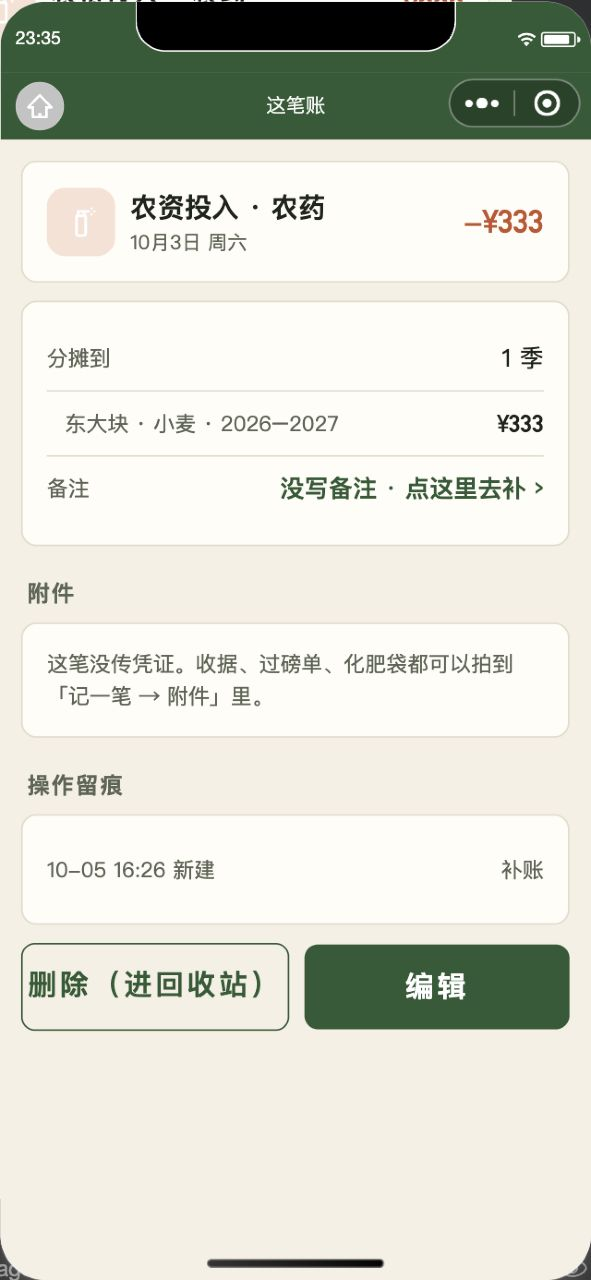
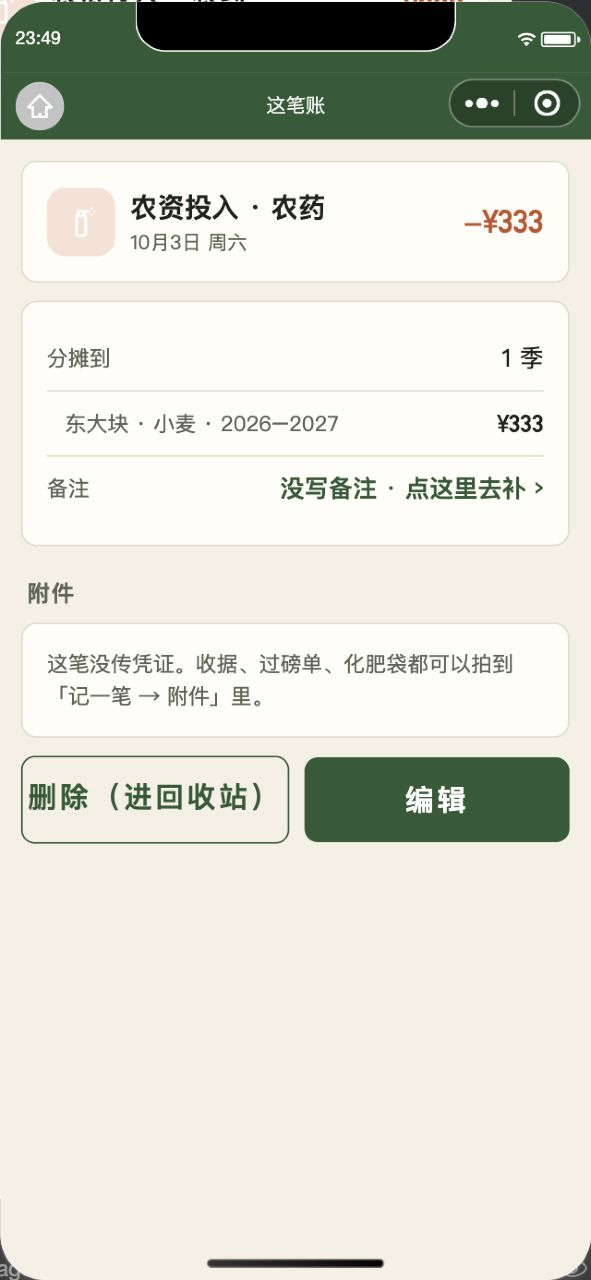
fix(cost-detail): 去掉「操作留痕」版块（按用户要求）；留痕数据仍写入，只是不展示 - 设计稿同步：F8 标题改「流水详情」、F21 改「回收站」、覆盖清单 P1-12 改为「误删恢复；留痕只写数据不展示」

diff --git a/docs/design/记账P0P1-UI设计稿.html b/docs/design/记账P0P1-UI设计稿.html
@@ -229,7 +229,7 @@ h3.sect{font-size:12.5px;font-weight:700;color:var(--sub);letter-spacing:1px;mar
 
 <div class="wrap">
 <h1>谷雨记 · 记账 P0+P1 UI 设计稿<small>随手记对齐版 · 全量落地（无 MVP）</small></h1>
-<div class="meta">2026-10-05 · 覆盖：收入侧 / 债权债务 / 报表趋势 / 库存 / 键盘自定义+最近分类 / 流水多维筛选 / 日历周月+连续补账 / 附件留证 / 周期账与分期 / 全部地块统一流水 / 操作留痕与误删恢复<br>
+<div class="meta">2026-10-05 · 覆盖：收入侧 / 债权债务 / 报表趋势 / 库存 / 键盘自定义+最近分类 / 流水多维筛选 / 日历周月+连续补账 / 附件留证 / 周期账与分期 / 全部地块统一流水 / 误删恢复（回收站）<br>
 共 <b>28 屏</b>。视觉与当前线上版本 <b>1:1 对齐</b>（沿用 <code>app.wxss</code> 的色板 / 圆角 / 字号 / 组件尺寸，1px = 2rpx），<b>不引入任何新色相</b>——收支与欠款只用既有色值。<b>导出模块已按你的要求删除。</b></div>
 
 <h2 class="sec">0. 设计系统（与当前线上版本 1:1 对齐）</h2>
@@ -285,7 +285,7 @@ h3.sect{font-size:12.5px;font-weight:700;color:var(--sub);letter-spacing:1px;mar
 <tr><td>P1-9</td><td>附件 / 拍照留证：多张、缩略图、九宫格查看</td><td>F5 F8</td></tr>
 <tr><td>P1-10</td><td>周期账 / 分期：每次/每月/每季自动待记、分 N 期</td><td>F4</td></tr>
 <tr><td>P1-11</td><td>全部地块统一流水页（跨季跨地块）</td><td>F6</td></tr>
-<tr><td>P1-12</td><td>操作留痕 + 误删恢复（回收站）</td><td>F8 F21</td></tr>
+<tr><td>P1-12</td><td>误删恢复（回收站）；操作留痕只写数据、界面不展示（用户要求）</td><td>F21</td></tr>
 <tr><td>P1-13</td><td>预算：按季总预算 / 每亩目标 / 分类预算、进度与超支提醒</td><td>F25</td></tr>
 <tr><td>P1-14</td><td>资金账户：现金 / 微信 / 银行卡，期初 + 实收 − 实付 = 余额，按账户筛流水</td><td>F26</td></tr>
 <tr><td>P1-15</td><td>资产负债总览：账户余额 + 库存估值 + 应收 − 应付 = 净资产</td><td>F27</td></tr>
@@ -637,22 +637,16 @@ h3.sect{font-size:12.5px;font-weight:700;color:var(--sub);letter-spacing:1px;mar
     <div class="row" style="gap:9px">
       <div class="thumb">收据</div><div class="thumb">过磅单</div><div class="thumb">化肥袋</div><div class="thumb" style="border-style:dashed">＋</div>
     </div>
-    <h3 class="sect">操作留痕</h3>
-    <div class="c2 flat">
-      <div class="kv"><span class="muted">10-05 14:22 创建</span><span class="tiny">本机</span></div>
-      <div class="kv"><span class="muted">10-05 14:31 改金额 2,080 → 2,180</span><span class="tiny">本机</span></div>
-      <div class="kv"><span class="muted">10-05 14:40 加附件 收据.jpg</span><span class="tiny">本机</span></div>
-    </div>
     <div class="row" style="gap:9px">
       <div class="btn ghost grow sm">删除（进回收站）</div><div class="btn g grow sm">编辑</div>
     </div>
   </div>
 </div>
-<div class="cap"><h4>F8 · 流水详情（含留痕）<span class="tagline">P1-9 / P1-12</span></h4>
+<div class="cap"><h4>F8 · 流水详情<span class="tagline">P1-9</span></h4>
 <ul>
 <li>把「怎么算出来的 / 分摊到哪 / 结款状态 / 备注」四件事一次说清，替代现在只有一行的列表信息量。</li>
 <li>附件在详情里可补加、可删。</li>
-<li><b>操作留痕</b>只记关键动作（创建 / 改金额 / 改分类 / 加删附件 / 销账），每条带时间戳与来源（本机 / 云端），不记打开、滚动这类噪音。</li>
+<li><b>操作留痕不在界面上展示</b>（用户要求，别占版面）：<code>costs[i].audit</code> 仍在写「谁在什么时候改了什么」，供回收站/对账口径用，但详情页只显示「怎么算的 / 分摊 / 结款 / 备注 / 附件」。</li>
 <li>删除走软删 → 回收站（F21），文案明确写「进回收站」而不是「删除」，减少误操作恐惧。</li>
 </ul></div></div></div>
 <h2 class="sec">5. 日历（P1-8）</h2>
@@ -1268,21 +1262,15 @@ h3.sect{font-size:12.5px;font-weight:700;color:var(--sub);letter-spacing:1px;mar
       <div class="flow"><div class="fic b">记</div><div class="grow"><div style="font-weight:700">记事：施肥 复合肥 20 袋</div><div class="tiny">10-04 删除 · 剩 28 天</div></div><span class="chip hl">恢复</span></div>
       <div class="flow"><div class="fic d">欠</div><div class="grow"><div style="font-weight:700">应付 · 老王（机手）¥1,500</div><div class="tiny">10-02 删除 · 剩 26 天</div></div><span class="chip hl">恢复</span></div>
     </div>
-    <div class="c2 flat">
-      <div class="tiny" style="margin-bottom:5px">这一季的操作记录</div>
-      <div class="kv"><span class="muted">10-05 14:40 删除一笔账</span><span class="tiny">本机</span></div>
-      <div class="kv"><span class="muted">10-05 14:31 改金额 2,080 → 2,180</span><span class="tiny">本机</span></div>
-      <div class="kv"><span class="muted">10-05 14:22 新建一笔账</span><span class="tiny">本机</span></div>
-    </div>
     <div class="muted" style="text-align:center;font-size:12px">删除不弹二次确认，因为可以恢复——比现在的「confirm 后硬删」更安全</div>
   </div>
 </div>
-<div class="cap"><h4>F21 · 回收站 + 操作留痕<span class="tagline">P1-12</span></h4>
+<div class="cap"><h4>F21 · 回收站<span class="tagline">P1-12</span></h4>
 <ul>
 <li>所有删除改为软删（账目 / 记事 / 欠款 / 库存动账 / 附件），保留 30 天，可一键恢复。</li>
 <li>「清空」需二次确认；到期自动清理在启动时本机做，不依赖云函数。</li>
 <li>恢复会把关联关系一并还原（账↔记事、账↔附件、欠款↔账）。</li>
-<li>下半页是操作留痕：只记关键动作 + 时间戳 + 来源，和 F8 详情里的留痕同一份数据。</li>
+<li>操作留痕只留在数据里（<code>costs[i].audit</code>），不在这页展示，避免版面被审计信息占满。</li>
 <li>有了回收站，各处删除不再需要 confirm 弹窗——少一步点击，误删也不怕。</li>
 </ul></div></div>
 
@@ -1420,7 +1408,7 @@ h3.sect{font-size:12.5px;font-weight:700;color:var(--sub);letter-spacing:1px;mar
 <tr><td>周期账</td><td><code>tags.recurring=[{id,name,cat,sub,mode,freq,day|dueTag,amount,startAt,endAt,lastFiredAt,enabled}]</code>；到期只生成待记，不自动落账</td></tr>
 <tr><td>分期</td><td>同上，加 <code>installment:{total,periods,index}</code>；每期金额 = 总额/期数，尾差进最后一期（复用现有 <code>splitBy</code>）</td></tr>
 <tr><td>回收站</td><td><code>costs/logs</code> 加 <code>deletedAt</code>；所有列表过滤掉带 <code>deletedAt</code> 的；30 天后启动时本机清理</td></tr>
-<tr><td>留痕</td><td><code>costs[i].audit=[{at,action,from,to,src:'local'|'cloud'}]</code>，只记关键动作</td></tr>
+<tr><td>留痕</td><td><code>costs[i].audit=[{at,action,from,to,src:'local'|'cloud'}]</code>，只记关键动作；<b>只写不展示</b>（用户在真机上要求删掉「操作留痕」版块）</td></tr>
 <tr><td>日历</td><td>月/周共用 <code>stats.costMonth</code>；周视图新增 <code>stats.costWeek</code>，输出与月一致的格结构</td></tr>
 <tr><td>连续补账</td><td>由「季内日历缺记日」派生，纯前端状态机，每保存一天立即落库</td></tr>
 <tr><td>筛选</td><td>纯前端过滤（数据量在千级以内），条件对象 <code>{dir,cats[],subs[],amtMin,amtMax,from,to,onlyDebt,onlyAttach,onlyLinked,q}</code></td></tr>
@@ -1441,7 +1429,7 @@ h3.sect{font-size:12.5px;font-weight:700;color:var(--sub);letter-spacing:1px;mar
 <div class="note done" style="margin-top:12px"><b>5. 导出模块 —— 已删除，不做。</b><br>
 <code>utils/export.js</code>、报表页与我的页的导出入口、以及本稿原来的 F14 全部移除；<code>miniprogram/README.md</code> 里「mine 有导出为文字」的描述也一并改成实际能力。账目对外分享只保留小程序原生「推荐给朋友」。</div>
 <div class="note" style="margin-top:12px"><b>6. 全量落地，不拆 MVP。</b><br>
-收入侧 / 欠款 / 报表趋势 / 库存 / 键盘自定义+最近分类 / 流水多维筛选 / 日历周月+连续补账 / 附件留证 / 周期账与分期 / 全部地块统一流水 / 操作留痕与回收站，一起做完再回归真机。</div>
+收入侧 / 欠款 / 报表趋势 / 库存 / 键盘自定义+最近分类 / 流水多维筛选 / 日历周月+连续补账 / 附件留证 / 周期账与分期 / 全部地块统一流水 / 回收站，一起做完再回归真机。</div>
 <div class="note done" style="margin-top:12px"><b>7. 补齐 3 个记账缺口 —— 已确认：全做（预算 / 资金账户 / 资产负债）。</b><br>
 对照随手记最新能力清单，补掉「预算与超支提醒」「多账户与余额」「资产负债总览」；见第 14 节 F25 / F26 / F27。</div>
 <div class="note done" style="margin-top:12px"><b>8. 收获「加一块地」—— 已确认：保持开放。</b><br>

diff --git a/miniprogram/pages/cost-detail/cost-detail.js b/miniprogram/pages/cost-detail/cost-detail.js
@@ -1,4 +1,5 @@
-// 一笔账的详情（F8）：怎么算的 / 分摊到哪 / 结款 / 附件 / 操作留痕，从这儿去编辑或删除
+// 一笔账的详情（F8）：怎么算的 / 分摊到哪 / 结款 / 备注 / 附件，从这儿去编辑或删除
+// 说明：操作留痕（costs[i].audit）仍在写数据（回收站/审计口径用），但按用户要求不在界面上展示
 const store = require('../../utils/store.js');
 const stats = require('../../utils/stats.js');
 const C = require('../../utils/const.js');
@@ -6,7 +7,7 @@ const U = require('../../utils/util.js');
 const attach = require('../../utils/attach.js');
 
 Page({
-  data: { id: '', c: {}, allocs: [], allocText: '', audit: [], atts: [], debt: null, pending: 0, log: null },
+  data: { id: '', c: {}, allocs: [], allocText: '', atts: [], debt: null, pending: 0, log: null },
 
   onLoad(q) { if (q.id) this.setData({ id: q.id }); },
   onShow() { this.render(); },
@@ -30,11 +31,6 @@ Page({
       open: !c.debt.settled
     } : null;
     const log = c.logId ? store.logs.get(c.logId) : null;
-    const audit = (c.audit || []).slice().reverse().map(a => Object.assign({}, a, {
-      when: U.dt(a.at),
-      srcText: a.src === 'local' ? '本机' : a.src === 'cloud' ? '云端' : a.src === 'stock' ? '库存入库' : a.src === 'harvest' ? '收获' : a.src === 'catchup' ? '补账' : a.src === 'attach' ? '附件' : '本机',
-      text: a.action + (a.from || a.to ? ' ' + [a.from, a.to].filter(Boolean).join(' → ') : '')
-    }));
     this.setData({
       c: {
         id: c.id, inc, dateText: U.cnDate(c.date) + ' ' + U.weekday(c.date),
@@ -44,7 +40,7 @@ Page({
         shared: allocs.length > 1, expr: c.expr || ''
       },
       allocs, allocText: allocs.length > 1 ? '按' + ((C.SPLIT_MODES.find(m => m.key === c.split) || {}).name || '手动') + '分摊' : '',
-      debt, audit, log: log ? { id: log.id, text: (log.ops || []).join('、') || log.text || '记事', date: U.cnDate(log.date) } : null,
+      debt, log: log ? { id: log.id, text: (log.ops || []).join('、') || log.text || '记事', date: U.cnDate(log.date) } : null,
       atts: (c.attachments || []).map(a => ({ name: a.name || '照片', src: a.fileID || a.localPath, uploaded: !!a.fileID, pending: !a.fileID && !!a.localPath })),
       pending: attach.pendingCount(c)
     });
